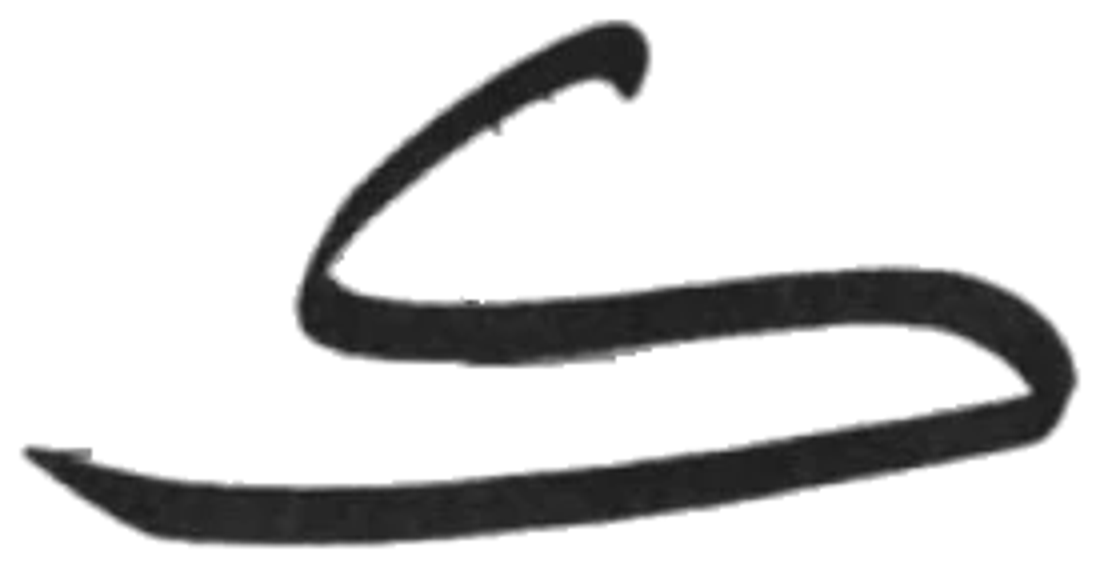
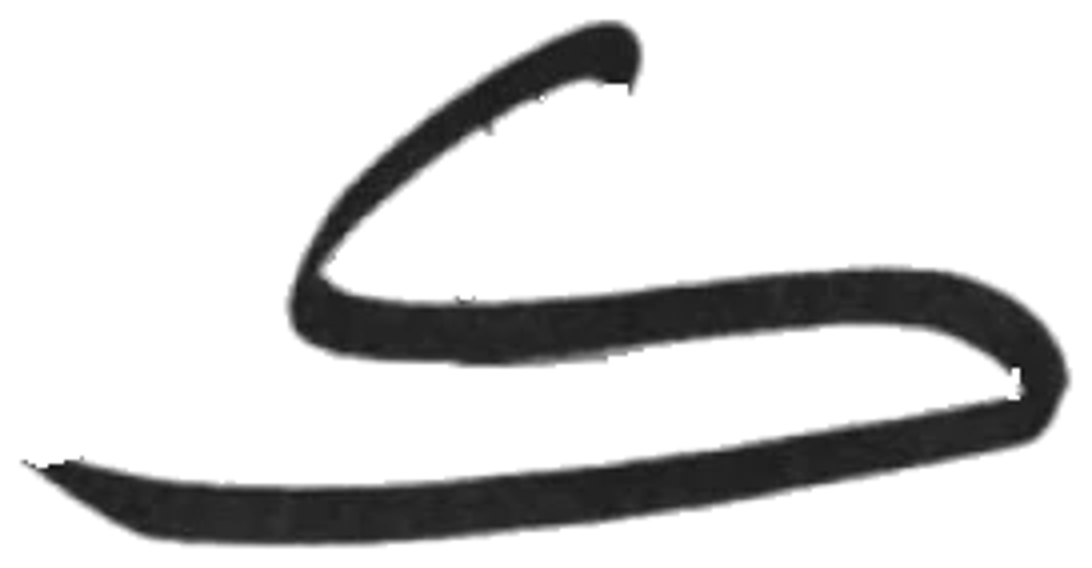
Clean the sheet-2 kaf's tiny spurs and add it to the library; delete the meem outline
Claude-Session: https://claude.ai/code/session_01XKSn9LffW5ruEBSXbs53N4

diff --git a/src/lib/markLibraryData.ts b/src/lib/markLibraryData.ts
@@ -105,6 +105,7 @@ export const MARK_GROUPS: MarkGroup[] = [
     { id: "thuluth-t2-19", name: "Wrapped ha (ح)", w: 371, h: 527, d: "M-56 263C-59 263 -62 263 -63 262C-64 262 -67 262 -68 262C-71 261 -75 261 -84 258C-87 258 -90 257 -92 256C-99 255 -110 251 -118 246C-119 245 -122 243 -125 242C-129 240 -134 236 -135 234C-136 234 -138 232 -139 231C-145 226 -158 212 -159 209C-160 208 -161 206 -162 205C-166 200 -169 192 -172 183C-174 179 -176 175 -176 173C-180 165 -182 153 -183 143C-184 135 -184 129 -185 125C-186 110 -183 57 -179 43C-179 41 -178 39 -178 38C-178 37 -177 34 -176 32C-176 29 -175 25 -174 23C-173 18 -170 5 -168 2C-167 0 -166 -2 -166 -4C-166 -5 -164 -9 -163 -12C-161 -15 -159 -20 -157 -24C-156 -28 -154 -33 -153 -35C-144 -51 -144 -54 -153 -60C-158 -63 -158 -64 -158 -65C-160 -71 -155 -72 -147 -69C-143 -66 -139 -66 -137 -67C-135 -68 -127 -77 -123 -82C-122 -83 -120 -86 -118 -88C-117 -89 -114 -92 -113 -94C-112 -96 -109 -99 -108 -101C-96 -114 -95 -115 -95 -118C-95 -121 -96 -122 -101 -125C-102 -126 -105 -128 -107 -129C-110 -131 -113 -133 -114 -133C-116 -135 -127 -142 -130 -144C-131 -145 -135 -148 -139 -150C-148 -156 -158 -163 -160 -165C-161 -166 -163 -167 -165 -168C-171 -173 -175 -178 -177 -183C-178 -184 -179 -186 -180 -188C-182 -193 -183 -194 -184 -201C-187 -212 -185 -220 -178 -236C-176 -241 -175 -243 -172 -245C-170 -246 -169 -247 -169 -247C-169 -248 -164 -252 -162 -253C-150 -259 -142 -261 -123 -262C-119 -262 -114 -262 -112 -263C-108 -264 -85 -264 -80 -263C-72 -262 -59 -262 -53 -262C-50 -263 -48 -262 -45 -262C-43 -262 -38 -261 -35 -261C-31 -261 -26 -260 -25 -260C-23 -260 -19 -260 -16 -259C-13 -259 -8 -259 -6 -259C-4 -258 1 -258 5 -257C9 -257 15 -257 18 -256C22 -256 28 -256 33 -255C41 -255 43 -255 51 -253C53 -252 56 -251 62 -251C67 -251 73 -250 76 -250C79 -249 84 -248 87 -248C90 -248 94 -248 96 -247C98 -247 102 -246 104 -246C110 -246 118 -245 121 -244C122 -244 125 -243 128 -242C131 -241 135 -240 138 -240C145 -238 148 -237 148 -233C148 -232 148 -232 144 -220C137 -199 134 -196 122 -191C119 -190 115 -188 112 -187C109 -186 105 -185 104 -184C99 -182 95 -180 92 -179C90 -178 88 -177 87 -177C86 -176 82 -175 80 -174C75 -171 68 -168 62 -165C60 -164 57 -163 56 -163C55 -162 53 -161 52 -161C50 -160 48 -159 45 -158C43 -157 39 -155 37 -154C34 -153 31 -152 30 -151C29 -150 26 -149 24 -148C21 -147 18 -145 13 -143C9 -140 6 -139 2 -137C-5 -134 -11 -132 -15 -129C-17 -128 -20 -127 -22 -126C-29 -123 -31 -122 -37 -118C-40 -116 -44 -113 -46 -113C-53 -109 -54 -107 -55 -96C-55 -87 -55 -86 -58 -85C-61 -84 -63 -85 -67 -89C-72 -94 -73 -94 -80 -89C-82 -87 -86 -84 -88 -82C-93 -79 -104 -68 -106 -66C-109 -61 -104 -58 -92 -57C-90 -56 -88 -56 -87 -56C-86 -55 -76 -55 -67 -55C-63 -55 -58 -54 -55 -54C-46 -53 -38 -52 -25 -52C-14 -52 -13 -52 -4 -51C-3 -51 6 -50 16 -50C26 -50 36 -50 39 -50C42 -49 47 -49 50 -49C53 -48 58 -48 61 -48C63 -48 68 -47 71 -47C74 -46 79 -46 81 -46C84 -45 89 -45 92 -44C95 -44 99 -43 101 -43C104 -43 108 -42 111 -41C115 -40 119 -40 120 -39C123 -39 131 -36 137 -33C144 -30 151 -25 158 -19C160 -18 162 -16 164 -14C168 -11 168 -11 174 -2C179 7 183 19 184 32C184 33 184 36 184 38C185 48 186 59 185 62C185 64 184 68 184 71C184 73 183 77 183 80C182 82 181 88 180 92C178 102 177 103 175 107C175 109 173 113 171 116C170 119 168 124 167 126C166 129 165 131 160 140C159 142 156 147 153 151C150 155 148 159 147 160C146 163 143 166 138 171C135 174 132 177 131 179C127 185 112 200 105 205C104 206 102 207 101 209C97 212 93 215 88 218C86 220 83 222 82 223C80 225 75 228 71 230C70 231 68 232 66 233C65 235 62 236 60 237C58 238 55 240 55 240C54 240 53 241 51 241C50 242 46 244 42 245C36 249 30 251 18 253C16 254 11 255 8 256C5 257 1 258 -2 259C-5 259 -9 260 -11 260C-13 261 -16 262 -19 262C-22 262 -26 262 -27 263C-31 263 -49 264 -56 263ZM-2 215C8 214 9 213 28 207C30 206 34 205 37 204C40 203 42 202 43 202C43 202 46 200 50 199C53 197 59 194 63 193C71 189 80 184 87 178C89 176 92 174 93 174C97 171 106 164 110 160C112 158 115 156 116 155C117 154 119 152 120 151C121 150 124 147 127 144C130 141 133 138 134 137C135 135 138 132 140 130C144 126 145 124 147 120C148 119 149 118 151 116C154 113 158 106 163 97C163 96 164 94 165 93C173 80 173 59 165 45C157 32 157 31 146 23C133 13 115 5 103 4C101 3 98 3 96 2C95 2 92 1 89 1C86 1 83 1 81 0C79 -0 70 -1 63 -2C61 -2 59 -3 58 -3C54 -4 52 -4 44 -5C40 -5 36 -5 35 -5C33 -6 28 -6 23 -6C12 -7 4 -7 2 -8C1 -8 -6 -9 -19 -9C-31 -10 -39 -11 -54 -14C-58 -15 -69 -18 -74 -19C-76 -20 -79 -21 -81 -21C-83 -22 -86 -23 -87 -23C-88 -24 -90 -25 -92 -25C-100 -28 -108 -32 -111 -34C-113 -36 -120 -39 -124 -40C-128 -41 -131 -39 -134 -34C-135 -33 -136 -30 -138 -28C-143 -20 -146 -15 -147 -12C-147 -10 -149 -8 -149 -7C-153 -1 -158 9 -158 13C-159 16 -161 23 -163 31C-166 39 -167 46 -168 51C-168 53 -168 57 -169 60C-170 66 -170 74 -170 87C-170 108 -168 117 -162 134C-161 137 -160 140 -160 142C-158 147 -153 157 -148 164C-144 170 -131 184 -127 186C-126 187 -124 188 -123 189C-121 192 -109 199 -103 201C-102 202 -100 203 -99 203C-98 204 -95 205 -93 206C-91 207 -87 208 -84 209C-79 212 -75 213 -69 214C-67 214 -63 215 -60 215C-50 217 -14 217 -2 215ZM-63 -140C-62 -140 -60 -142 -59 -143C-57 -144 -54 -147 -52 -148C-50 -149 -47 -151 -45 -152C-44 -154 -40 -156 -38 -157C-31 -161 -25 -165 -21 -167C-19 -168 -13 -171 -8 -174C-2 -177 4 -180 6 -181C8 -182 11 -184 13 -185C15 -185 17 -186 17 -187C18 -187 20 -188 23 -189C25 -189 28 -191 30 -192C33 -193 36 -195 41 -197C48 -200 49 -201 49 -202C51 -205 44 -207 23 -209C21 -209 16 -210 14 -210C11 -210 7 -211 3 -211C0 -212 -4 -212 -5 -212C-12 -214 -14 -214 -23 -214C-31 -214 -32 -215 -37 -216C-42 -217 -42 -217 -54 -217C-60 -217 -67 -218 -68 -218C-69 -218 -76 -218 -87 -218C-96 -218 -108 -218 -112 -218C-121 -218 -123 -218 -130 -217C-134 -216 -136 -215 -144 -214C-151 -214 -154 -213 -155 -211C-158 -208 -157 -206 -148 -200C-146 -199 -143 -197 -142 -196C-141 -195 -138 -194 -137 -193C-135 -192 -132 -190 -130 -189C-128 -187 -125 -185 -123 -184C-122 -183 -119 -182 -118 -181C-116 -179 -110 -175 -106 -173C-100 -170 -93 -164 -72 -142C-67 -138 -67 -138 -63 -140Z" },
     { id: "thuluth-t2-23", name: "Starting sad (صـ)", w: 303, h: 221, d: "M-146 110C-148 110 -147 107 -145 101C-144 99 -144 96 -143 94C-143 92 -142 89 -141 87C-137 73 -137 72 -144 62C-152 53 -153 44 -150 30C-149 28 -148 24 -148 22C-144 6 -143 5 -137 12C-136 14 -134 17 -132 19C-131 20 -129 22 -128 23C-127 25 -123 29 -121 29C-117 31 -113 28 -109 20C-107 16 -103 10 -97 3C-96 2 -93 -2 -91 -5C-89 -8 -86 -12 -85 -14C-84 -15 -82 -18 -81 -19C-80 -20 -79 -21 -79 -22C-78 -22 -77 -23 -77 -24C-76 -26 -75 -27 -74 -28C-73 -29 -71 -32 -69 -34C-64 -41 -60 -46 -51 -54C-47 -58 -42 -63 -40 -65C-33 -73 -23 -82 -15 -87C-14 -87 -12 -89 -11 -90C-9 -92 -1 -96 2 -98C3 -99 5 -100 6 -100C10 -103 14 -105 24 -107C26 -107 29 -108 31 -109C39 -111 47 -111 59 -110C69 -109 81 -105 84 -103C86 -101 92 -98 99 -95C107 -91 111 -88 116 -83C118 -81 122 -78 124 -75C127 -73 130 -70 131 -68C133 -67 135 -64 137 -62C138 -60 141 -57 141 -56C142 -54 144 -51 146 -48C150 -42 151 -40 151 -35C152 -23 149 -9 145 3C144 5 143 9 142 11C140 16 135 26 132 30C131 31 130 33 129 34C128 36 126 38 124 40C122 41 119 44 118 46C115 48 113 49 111 50C110 51 107 53 104 55C99 59 91 64 87 66C85 67 83 68 81 69C75 73 73 74 64 77C62 77 59 79 57 79C49 82 40 85 36 86C34 87 31 87 30 88C25 90 13 93 3 95C-8 97 -11 97 -17 98C-30 99 -39 99 -51 99C-70 98 -76 97 -93 93C-97 92 -102 91 -103 91C-105 90 -108 89 -111 87C-121 82 -124 83 -128 90C-133 97 -135 101 -137 103C-138 105 -139 107 -140 108C-142 110 -144 111 -146 110ZM-2 51C0 51 4 50 5 50C14 49 25 47 37 43C48 39 48 39 53 38C60 37 71 32 86 24C87 24 91 22 95 20C99 17 104 15 105 14C109 12 115 8 118 6C119 5 121 4 123 3C128 -1 128 -4 123 -10C121 -12 119 -15 118 -17C116 -20 114 -21 112 -23C111 -24 109 -26 107 -28C105 -31 102 -33 101 -34C99 -35 96 -38 93 -41C89 -45 89 -45 84 -48C81 -49 77 -52 75 -53C64 -61 48 -65 32 -65C22 -64 0 -58 -5 -54C-6 -54 -10 -51 -13 -49C-20 -44 -23 -42 -27 -39C-29 -37 -32 -34 -34 -33C-36 -32 -39 -29 -42 -26C-45 -23 -48 -20 -50 -19C-51 -17 -53 -15 -54 -14C-55 -13 -57 -11 -59 -10C-65 -5 -68 -1 -74 7C-76 9 -77 12 -78 13C-79 15 -85 23 -88 27C-89 29 -90 31 -91 32C-98 41 -95 46 -83 48C-78 49 -70 51 -67 51C-60 52 -9 52 -2 51Z" },
     { id: "thuluth-t2-28", name: "Waw (و)", w: 305, h: 318, d: "M-78 159C-79 159 -81 159 -83 158C-85 158 -88 158 -89 158C-94 157 -103 154 -107 152C-108 152 -109 151 -110 150C-111 150 -113 148 -115 147C-117 146 -119 144 -121 143C-124 141 -128 136 -131 132C-132 131 -134 128 -135 127C-136 125 -137 123 -138 122C-138 120 -140 117 -141 114C-146 106 -148 100 -150 91C-153 77 -154 53 -151 33C-150 29 -150 25 -149 23C-149 21 -149 18 -148 16C-148 15 -147 12 -147 10C-147 8 -146 5 -146 3C-145 2 -144 -2 -143 -6C-143 -9 -142 -13 -141 -14C-141 -15 -140 -17 -140 -19C-139 -22 -137 -25 -134 -33C-133 -35 -131 -39 -130 -42C-127 -49 -126 -51 -124 -51C-119 -53 -118 -46 -122 -36C-123 -33 -125 -30 -126 -28C-126 -26 -127 -22 -128 -20C-129 -17 -130 -12 -131 -9C-135 4 -136 8 -137 16C-137 20 -138 25 -138 26C-139 31 -139 42 -138 49C-138 52 -137 56 -137 58C-135 72 -131 80 -121 91C-106 106 -100 109 -80 112C-76 112 -71 113 -68 113C-63 114 -62 114 -58 113C-56 112 -52 112 -48 111C-42 110 -39 109 -24 105C-22 104 -17 102 -14 100C-10 99 -5 97 -4 96C-2 95 1 94 3 93C4 92 7 91 8 90C9 90 11 88 13 87C17 85 20 83 26 80C28 79 31 77 33 76C35 74 38 72 40 70C46 67 50 64 52 62C53 61 56 60 58 58C60 57 64 54 65 53C67 51 70 49 72 47C74 46 77 43 79 41C82 39 85 36 87 35C88 33 91 31 93 30C94 28 97 25 99 24C104 20 111 13 114 9C116 7 119 5 121 3C122 2 125 -1 127 -4C129 -6 132 -9 133 -10C143 -20 143 -25 135 -34C130 -38 124 -41 116 -42C115 -43 112 -43 110 -44C94 -47 94 -47 82 -47C57 -46 56 -46 44 -50C32 -53 23 -64 20 -79C19 -84 20 -98 21 -102C22 -103 23 -107 23 -109C24 -113 25 -115 26 -117C27 -119 28 -122 28 -123C33 -136 49 -151 62 -156C74 -161 79 -160 90 -154C93 -152 97 -150 99 -149C101 -147 104 -146 105 -144C106 -143 109 -141 111 -139C113 -137 116 -134 118 -133C119 -131 121 -129 122 -127C129 -119 131 -115 135 -109C136 -106 137 -103 138 -103C138 -102 143 -93 145 -89C149 -79 150 -73 151 -64C151 -61 152 -55 152 -51C152 -48 153 -44 153 -43C153 -38 152 -26 151 -20C151 -17 150 -13 150 -11C150 -10 150 -8 149 -7C149 -6 149 -3 148 -2C148 2 147 4 145 7C144 9 143 11 142 12C140 20 137 24 131 31C129 33 127 36 125 37C124 39 121 42 119 44C117 47 113 50 112 52C110 54 108 56 107 57C105 58 103 61 102 62C100 64 97 67 94 70C92 72 89 75 88 76C87 77 84 79 82 81C79 83 76 86 74 87C69 92 65 95 62 98C60 99 57 101 56 102C53 105 51 107 48 109C47 109 44 111 42 113C38 116 34 119 28 122C27 123 23 126 20 127C18 129 13 132 10 133C8 135 5 136 4 137C3 138 -3 141 -6 143C-7 143 -9 144 -12 145C-14 145 -17 147 -19 148C-22 149 -28 151 -37 154C-42 156 -54 158 -58 159C-61 159 -76 159 -78 159ZM84 -90C91 -91 93 -92 93 -95C93 -97 91 -100 87 -102C76 -110 75 -111 73 -111C66 -114 55 -111 48 -104C44 -100 44 -98 50 -94C56 -91 73 -89 84 -90Z" },
+    { id: "thuluth-t2-3", name: "Kaf, zinadi (ك)", w: 772, h: 392, d: "M-208 196C-224 195 -240 195 -245 195C-250 195 -259 194 -265 194C-275 194 -278 194 -280 193C-281 193 -284 192 -287 192C-301 191 -306 190 -318 184C-322 182 -326 180 -328 180C-329 179 -331 178 -332 177C-338 173 -347 168 -349 167C-350 166 -352 165 -353 165C-354 164 -356 162 -358 161C-360 160 -363 158 -364 157C-368 153 -371 151 -373 150C-376 149 -378 147 -381 145C-382 144 -383 143 -384 142C-387 140 -387 140 -382 138C-381 138 -379 138 -379 137C-378 136 -376 135 -372 135C-370 135 -369 135 -368 135C-364 133 -364 133 -359 133C-355 134 -354 134 -352 135C-350 136 -343 138 -337 139C-334 139 -331 140 -329 140C-322 142 -321 143 -314 144C-311 144 -306 145 -304 146C-302 146 -297 147 -294 147C-290 148 -285 149 -283 149C-281 149 -275 150 -271 150C-265 150 -261 150 -258 151C-252 152 -251 152 -231 152C-217 152 -208 152 -203 153C-197 153 -194 153 -189 153C-186 153 -170 153 -154 152C-139 152 -125 152 -123 152C-122 152 -118 151 -114 151C-110 151 -104 151 -100 150C-96 150 -90 149 -85 149C-79 149 -76 149 -72 148C-69 147 -66 147 -65 147C-63 147 -60 147 -58 146C-55 146 -51 145 -49 145C-46 145 -43 144 -42 144C-41 144 -37 144 -33 144C-29 143 -23 143 -20 142C-16 142 -12 141 -10 141C-8 141 -3 141 -0 141C10 140 19 139 21 138C22 138 26 138 30 138C38 137 47 136 54 134C58 133 64 132 70 132C73 132 80 131 86 130C92 129 98 128 101 128C103 127 106 127 108 127C109 126 113 126 116 126C122 125 123 125 127 125C129 124 132 124 135 123C138 123 142 122 143 121C144 121 147 120 149 120C151 120 154 119 155 119C157 118 161 118 163 118C166 117 169 117 172 116C175 115 179 115 181 114C184 114 187 114 189 113C192 113 196 112 199 112C204 111 209 110 219 108C222 107 226 107 228 107C230 106 233 106 234 106C235 106 238 105 240 105C242 104 245 104 247 104C248 103 251 103 254 103C256 102 260 102 263 101C266 101 270 100 273 99C275 99 278 98 280 98C284 96 287 96 292 95C295 95 298 95 299 94C301 94 303 93 305 93C306 93 310 92 314 91C317 90 322 90 324 90C326 89 330 89 333 88C338 86 338 86 342 87C347 88 349 88 350 85C351 82 351 79 351 77C351 76 350 73 350 70C350 64 350 63 347 63C345 63 345 64 344 65C343 65 342 66 342 66C342 66 333 58 332 57C331 56 319 49 315 47C314 47 312 46 311 45C302 39 282 33 271 32C268 32 264 32 261 32C248 30 208 30 199 32C193 33 189 34 182 34C178 34 173 34 171 35C170 35 165 35 162 36C158 36 154 36 152 37C148 38 146 38 141 38C137 38 133 38 132 39C131 39 128 39 126 39C124 40 121 40 119 40C117 41 114 41 111 41C108 41 103 42 101 42C98 43 95 43 93 43C91 43 88 44 86 44C84 45 80 45 78 45C71 46 68 46 66 47C65 48 62 48 61 49C59 49 56 49 55 50C53 51 51 51 48 51C43 51 41 51 39 54C37 55 37 55 35 55C32 55 24 56 16 57C11 58 6 58 4 58C2 58 -1 59 -4 59C-6 60 -9 60 -11 60C-14 60 -21 60 -29 61C-37 62 -66 61 -69 61C-71 60 -73 60 -75 59C-76 59 -78 59 -82 59C-97 59 -129 58 -134 57C-137 57 -140 56 -141 56C-143 56 -145 55 -147 55C-149 55 -153 54 -155 54C-160 54 -164 52 -169 50C-170 50 -172 49 -173 49C-183 46 -192 39 -195 31C-196 28 -198 21 -198 17C-198 10 -189 -18 -183 -26C-182 -28 -182 -29 -180 -33C-179 -34 -177 -37 -176 -39C-175 -40 -173 -44 -171 -48C-168 -53 -166 -56 -159 -66C-158 -67 -156 -69 -156 -70C-155 -71 -153 -73 -151 -75C-149 -76 -146 -78 -146 -79C-143 -82 -140 -86 -137 -87C-136 -88 -134 -90 -132 -92C-130 -94 -128 -96 -125 -98C-123 -100 -120 -103 -118 -105C-116 -107 -114 -109 -112 -109C-109 -111 -108 -113 -102 -118C-95 -123 -91 -127 -87 -129C-85 -131 -82 -133 -81 -133C-80 -134 -78 -136 -76 -138C-74 -139 -71 -141 -69 -142C-67 -143 -65 -145 -64 -145C-63 -146 -61 -147 -60 -148C-56 -151 -43 -160 -40 -161C-38 -162 -36 -163 -34 -165C-33 -166 -26 -169 -21 -172C-15 -175 -9 -178 -9 -178C-6 -180 2 -184 7 -186C9 -187 14 -188 16 -189C23 -193 25 -193 37 -196C40 -196 47 -196 49 -195C64 -190 69 -175 62 -156C59 -146 59 -145 57 -148C56 -150 55 -150 49 -150C42 -150 38 -150 33 -152C26 -154 13 -152 4 -147C3 -146 1 -146 -0 -145C-2 -145 -3 -144 -4 -143C-5 -143 -7 -142 -8 -141C-9 -141 -10 -140 -11 -139C-12 -138 -12 -138 -14 -138C-18 -138 -25 -135 -32 -130C-34 -129 -37 -127 -39 -126C-43 -124 -45 -122 -46 -119C-47 -116 -48 -115 -50 -115C-54 -116 -55 -116 -58 -115C-61 -113 -67 -109 -70 -107C-71 -105 -74 -103 -76 -102C-79 -101 -80 -100 -89 -93C-92 -90 -96 -87 -98 -86C-100 -85 -102 -84 -102 -83C-103 -82 -108 -77 -111 -75C-113 -74 -116 -72 -118 -70C-120 -68 -123 -65 -125 -64C-127 -63 -130 -60 -132 -57C-135 -55 -138 -52 -140 -51C-142 -49 -144 -48 -146 -46C-149 -43 -151 -40 -154 -38C-154 -38 -156 -36 -156 -35C-157 -34 -159 -31 -161 -29C-163 -27 -165 -24 -165 -23C-166 -21 -169 -18 -171 -16C-175 -11 -175 -7 -171 -4C-170 -3 -169 -2 -167 -0C-165 1 -163 3 -161 4C-158 5 -156 6 -156 6C-154 8 -144 10 -135 11C-133 11 -130 12 -128 12C-126 13 -122 13 -120 13C-118 13 -115 14 -112 14C-108 15 -94 15 -82 15C-76 15 -73 15 -72 13C-71 13 -69 13 -63 14C-57 15 -44 15 -40 15C-37 14 -32 14 -25 14C-18 14 -13 13 -11 13C-7 12 -1 12 8 11C21 10 33 10 47 8C60 7 65 6 71 5C74 4 78 3 80 3C82 3 86 3 89 2C92 2 97 2 101 1C107 1 108 1 117 -1C122 -2 133 -3 139 -3C140 -3 143 -4 145 -4C147 -5 151 -5 154 -5C157 -6 160 -6 162 -6C164 -6 171 -7 182 -8C185 -8 189 -8 191 -8C193 -9 196 -9 199 -9C203 -8 205 -8 208 -9C214 -10 222 -10 229 -10C233 -10 236 -10 239 -11C242 -11 245 -11 260 -11C265 -10 272 -10 277 -10C282 -10 287 -9 288 -9C289 -9 291 -9 294 -8C296 -8 299 -8 300 -7C302 -7 304 -6 306 -5C312 -4 333 5 340 9C345 12 354 18 357 20C358 22 361 25 363 26C367 30 369 33 373 39C375 41 377 44 377 46C380 49 382 55 383 59C384 60 384 64 385 66C387 72 386 74 382 83C381 87 379 91 378 93C374 105 365 116 356 119C352 121 334 125 321 127C318 128 313 129 311 129C310 130 306 130 304 131C301 131 297 132 295 133C287 135 282 136 278 136C276 136 273 137 272 137C271 138 268 138 266 138C264 138 260 139 257 140C254 141 250 142 249 142C248 142 240 143 234 144C232 145 229 146 226 146C221 147 216 148 214 148C213 149 207 150 203 150C201 150 197 151 195 152C192 152 189 153 186 153C184 153 178 154 174 156C155 160 147 162 141 162C136 163 136 163 132 164C131 164 127 165 125 165C122 166 117 167 113 167C108 168 106 169 102 169C98 169 94 170 87 171C83 172 77 173 75 173C73 173 70 173 69 174C67 174 65 174 63 174C61 175 57 175 54 176C51 176 48 177 47 177C45 177 43 177 42 178C41 178 39 178 37 178C36 179 33 179 31 179C29 180 24 180 21 180C17 181 12 181 9 181C6 182 2 182 -0 182C-2 182 -7 183 -10 183C-13 184 -17 184 -19 184C-22 184 -26 184 -28 185C-31 185 -34 186 -37 186C-39 186 -43 187 -46 187C-48 187 -52 188 -56 188C-59 188 -64 189 -66 189C-69 190 -72 190 -73 190C-75 190 -77 190 -79 191C-80 191 -85 191 -90 192C-94 192 -100 192 -103 192C-107 193 -113 193 -117 193C-121 193 -127 194 -130 194C-134 195 -139 195 -157 195C-169 195 -179 196 -180 196C-180 196 -193 196 -208 196Z" },
     { id: "thuluth-t3-2", name: "Alif (ا)", w: 78, h: 487, d: "M23 242C21 241 21 240 21 230C21 225 21 221 21 220C20 220 20 214 20 207C20 192 19 183 17 176C17 172 16 169 16 165C15 152 9 105 6 96C6 95 5 91 5 88C5 84 4 80 3 78C3 75 2 69 1 63C1 61 0 57 -0 54C-1 52 -2 47 -2 44C-3 41 -3 37 -3 36C-5 28 -7 16 -8 6C-8 3 -9 -2 -9 -6C-10 -9 -11 -18 -12 -25C-13 -32 -14 -38 -15 -40C-15 -41 -15 -43 -15 -44C-15 -44 -16 -48 -17 -52C-19 -64 -19 -67 -20 -71C-20 -77 -22 -89 -23 -95C-25 -106 -27 -119 -28 -130C-28 -133 -28 -136 -29 -137C-29 -139 -29 -143 -30 -147C-30 -163 -31 -169 -33 -176C-33 -179 -34 -182 -34 -184C-35 -186 -35 -190 -36 -193C-40 -204 -40 -207 -37 -219C-36 -221 -35 -225 -34 -228C-33 -233 -31 -241 -30 -242C-27 -245 -24 -243 -21 -237C-20 -235 -18 -232 -17 -231C-16 -230 -14 -225 -12 -222C-10 -218 -8 -213 -6 -211C-3 -207 -1 -202 2 -193C3 -190 4 -187 5 -185C6 -184 7 -182 7 -181C7 -180 9 -177 10 -174C12 -171 13 -167 14 -166C14 -164 15 -162 16 -160C17 -157 19 -152 19 -149C19 -142 10 -143 2 -152C-5 -160 -7 -153 -4 -136C-3 -133 -2 -129 -2 -126C-1 -114 -0 -108 1 -102C3 -95 4 -89 5 -85C5 -83 5 -81 6 -79C6 -77 7 -72 7 -68C8 -57 9 -50 10 -48C10 -47 11 -43 11 -40C13 -27 14 -20 15 -17C15 -16 16 -12 16 -8C18 4 20 15 22 23C23 25 23 28 23 29C23 31 24 33 24 35C24 37 25 40 25 41C25 46 27 58 27 60C28 62 28 67 29 72C30 78 31 83 31 85C32 88 33 95 34 104C34 106 35 112 35 117C36 123 36 130 36 133C36 139 37 141 38 148C38 149 38 155 38 161C39 167 39 173 39 175C39 178 39 188 38 205C38 215 37 222 34 234C31 242 28 245 23 242Z" },
     { id: "thuluth-t3-3", name: "Kaf, upright (ك)", w: 355, h: 553, d: "M-79 276C-87 276 -103 272 -108 271C-110 270 -113 269 -115 268C-123 266 -146 250 -150 245C-152 243 -155 239 -158 236C-160 233 -164 227 -170 216C-173 210 -175 199 -176 188C-176 184 -176 179 -177 177C-178 171 -178 162 -177 158C-176 152 -175 141 -174 136C-173 133 -172 128 -172 124C-171 121 -170 117 -170 116C-169 111 -166 105 -165 102C-164 100 -162 98 -161 97C-157 88 -149 92 -153 101C-153 103 -154 105 -154 107C-157 116 -158 121 -158 123C-158 124 -159 126 -160 128C-161 132 -161 132 -162 148C-162 170 -162 170 -157 178C-155 180 -153 183 -151 185C-148 191 -146 194 -140 200C-133 206 -129 210 -120 215C-118 216 -115 218 -113 219C-108 222 -99 225 -88 227C-70 231 -68 231 -51 230C-38 230 -33 229 -26 228C-25 228 -22 227 -19 226C-16 226 -11 225 -8 224C-4 223 -2 223 7 220C9 219 12 218 14 218C16 217 20 216 23 215C26 214 29 213 31 212C40 209 45 207 48 206C53 203 78 191 85 188C87 186 90 185 92 184C94 183 96 181 98 180C100 179 102 178 111 173C113 172 117 170 119 168C121 167 123 165 124 165C135 158 138 156 139 155C140 154 142 153 142 152C148 149 158 140 159 137C161 133 160 111 157 93C157 90 156 85 156 83C155 74 154 69 153 64C152 61 151 54 151 50C150 45 149 40 149 38C149 37 148 34 148 33C147 28 145 15 144 13C143 8 139 -13 138 -23C137 -26 137 -30 136 -33C134 -41 133 -47 132 -53C132 -57 131 -61 131 -61C130 -64 129 -69 129 -72C128 -75 127 -80 126 -83C126 -85 125 -88 124 -90C124 -92 123 -96 123 -98C121 -104 121 -108 120 -116C119 -124 117 -140 116 -147C114 -155 114 -159 114 -166C113 -172 112 -182 111 -187C111 -188 111 -191 111 -192C110 -200 108 -211 106 -216C103 -224 102 -229 100 -232C98 -236 98 -238 100 -247C101 -251 102 -255 102 -256C102 -257 103 -260 104 -263C105 -265 106 -269 106 -270C109 -279 116 -278 119 -268C120 -265 123 -259 125 -255C126 -253 127 -250 129 -248C130 -246 132 -242 133 -240C135 -238 137 -233 138 -230C140 -228 143 -222 145 -218C148 -213 150 -210 150 -207C151 -206 152 -203 153 -202C158 -193 159 -181 155 -179C153 -177 151 -178 146 -184C142 -189 140 -190 138 -189C135 -189 135 -185 137 -174C138 -170 138 -166 138 -164C139 -154 140 -146 143 -138C143 -136 144 -132 144 -129C145 -123 149 -104 151 -96C152 -93 153 -89 155 -77C156 -75 156 -71 157 -68C158 -59 158 -57 159 -53C160 -51 161 -48 161 -44C161 -41 162 -35 163 -32C164 -29 165 -24 165 -20C166 -16 166 -12 166 -11C168 -2 169 0 169 4C170 6 170 9 170 11C171 12 171 15 171 17C172 20 172 24 173 27C173 30 174 35 174 41C175 47 175 53 176 56C176 59 176 63 177 66C177 69 177 72 177 74C178 82 177 114 175 122C175 123 175 125 175 126C175 126 174 129 174 132C173 134 172 138 171 141C169 147 169 149 167 153C167 155 166 157 165 159C163 169 153 181 141 191C138 193 135 196 134 197C133 198 131 200 130 200C129 201 124 204 121 207C119 208 118 209 113 212C111 213 109 214 108 215C105 217 98 222 94 224C92 225 90 226 89 226C89 227 87 228 86 228C84 229 82 230 81 231C81 231 78 233 75 234C72 235 68 237 67 238C57 244 45 250 34 254C32 255 29 256 28 256C17 261 5 265 -3 267C-5 267 -7 268 -9 268C-14 270 -18 271 -23 272C-29 273 -30 273 -33 274C-37 275 -47 276 -56 276C-60 276 -65 276 -68 277C-70 277 -75 276 -79 276ZM-37 136C-40 135 -39 133 -34 131C-27 128 -22 126 -22 125C-21 125 -20 124 -17 123C-11 120 -4 116 -3 115C-2 114 -0 113 1 112C3 111 6 109 8 108C10 107 14 104 17 102C24 97 26 95 29 94C34 91 38 87 38 85C38 83 38 83 31 83C4 84 -2 83 -9 76C-17 67 -19 57 -14 47C-14 45 -13 43 -12 41C-12 38 -11 36 -11 35C-10 33 -9 31 -9 29C-7 22 -5 15 -2 9C-1 7 1 4 2 1C5 -5 9 -13 12 -18C13 -19 14 -21 14 -22C15 -24 22 -33 24 -34C32 -41 43 -43 45 -38C47 -34 47 -25 44 -19C44 -18 43 -13 43 -9C40 6 38 9 31 7C25 5 20 8 13 17C6 25 5 27 7 31C10 36 22 39 33 37C44 35 58 35 62 37C66 39 70 46 70 50C70 55 67 68 66 72C65 73 64 75 64 78C62 83 60 89 58 91C57 93 54 97 50 103C45 112 35 119 21 123C20 123 17 124 16 125C14 125 12 126 10 126C8 127 5 128 3 128C2 129 -2 129 -4 130C-10 131 -14 131 -16 132C-17 133 -20 133 -22 133C-25 134 -28 134 -31 135C-35 137 -36 137 -37 136Z" },
     { id: "thuluth-t3-5", name: "Lam, second form (ل)", w: 359, h: 598, d: "M-92 299C-92 299 -99 298 -104 297C-112 296 -120 294 -127 289C-134 286 -135 285 -137 283C-138 282 -140 280 -142 279C-149 274 -158 263 -161 256C-162 255 -163 252 -164 251C-165 249 -166 247 -166 245C-167 244 -168 241 -169 239C-170 237 -171 235 -171 234C-172 233 -174 228 -175 224C-175 223 -176 220 -176 219C-179 209 -180 186 -179 174C-179 171 -179 167 -179 164C-179 158 -178 150 -176 144C-176 143 -175 141 -175 139C-175 137 -174 135 -174 133C-172 127 -171 123 -170 119C-169 117 -167 113 -167 110C-165 104 -162 97 -161 95C-160 94 -159 91 -159 89C-157 84 -155 81 -152 77C-149 75 -146 75 -145 78C-145 80 -145 81 -147 84C-147 86 -148 89 -148 91C-149 97 -150 100 -152 105C-154 108 -154 110 -155 115C-156 118 -156 122 -157 123C-157 124 -159 134 -160 141C-162 154 -162 154 -162 168C-162 183 -162 183 -160 193C-159 194 -159 196 -158 198C-158 200 -155 208 -153 212C-152 213 -150 217 -147 220C-134 238 -116 249 -96 251C-94 251 -91 252 -90 252C-87 253 -75 253 -70 253C-68 252 -64 252 -60 252C-50 251 -29 247 -21 244C-20 243 -16 242 -14 241C-12 241 -9 239 -8 239C-7 238 -4 237 -3 237C-1 236 2 235 3 234C5 234 6 233 7 233C7 233 13 230 24 225C26 224 29 223 30 222C32 221 41 216 43 215C46 214 53 210 56 207C58 206 60 205 62 204C63 203 65 202 66 201C68 199 72 197 74 195C79 193 86 187 90 184C92 182 94 180 95 180C98 179 102 175 104 173C106 172 108 170 110 168C111 167 114 165 116 163C117 162 120 159 122 158C124 156 127 154 128 153C129 152 132 149 134 147C137 145 139 143 139 143C139 142 143 139 146 136C157 127 163 120 163 116C163 114 163 98 162 94C162 93 162 90 161 88C161 86 161 82 160 79C160 76 160 72 159 70C159 68 159 64 158 62C158 59 158 55 157 52C157 50 156 45 156 42C155 39 155 36 154 34C154 30 152 19 151 13C151 11 150 7 149 3C149 0 148 -4 147 -7C147 -9 146 -14 146 -18C144 -28 144 -32 143 -37C142 -42 141 -46 139 -60C139 -64 138 -68 138 -69C137 -73 135 -83 134 -91C133 -95 132 -100 132 -103C131 -106 131 -109 131 -110C130 -111 130 -115 129 -119C128 -123 127 -130 127 -133C127 -136 126 -141 126 -144C125 -146 125 -150 124 -152C124 -154 123 -158 122 -162C122 -166 121 -171 120 -173C120 -175 119 -178 119 -180C118 -182 118 -184 118 -185C118 -187 117 -196 115 -203C115 -206 114 -210 114 -213C112 -239 112 -237 107 -252C105 -260 105 -264 107 -273C108 -274 109 -277 109 -279C110 -283 112 -291 114 -295C118 -302 123 -300 126 -290C127 -286 129 -282 131 -279C132 -278 133 -275 134 -273C134 -271 135 -268 136 -267C137 -266 139 -262 140 -260C141 -258 143 -255 144 -254C144 -253 145 -250 146 -248C147 -247 148 -244 149 -242C150 -240 151 -237 152 -235C153 -233 154 -230 156 -228C159 -220 161 -207 159 -204C156 -201 154 -202 149 -208C144 -212 143 -213 142 -211C141 -210 141 -209 141 -203C142 -200 142 -195 143 -192C143 -186 143 -184 145 -172C146 -168 147 -163 147 -160C148 -157 148 -153 149 -151C150 -145 152 -136 153 -127C154 -118 155 -113 156 -108C158 -103 159 -95 161 -86C161 -83 162 -79 162 -77C163 -73 164 -67 164 -62C164 -60 165 -58 165 -56C165 -55 166 -53 166 -51C166 -49 167 -47 167 -46C168 -44 169 -38 170 -26C170 -22 171 -17 171 -15C172 -14 172 -11 172 -9C173 -7 173 -5 173 -3C173 -2 173 1 173 2C173 5 174 9 176 20C178 32 179 45 179 68C180 99 179 104 176 119C172 138 169 150 166 154C166 154 165 156 164 158C162 162 157 169 151 175C148 177 141 184 136 189C127 198 123 201 119 204C118 204 116 207 113 209C111 211 108 213 107 214C104 216 99 220 96 223C94 225 91 227 89 229C86 231 83 233 81 235C79 236 76 239 75 240C73 241 71 242 70 243C63 248 61 250 51 255C50 256 48 257 47 258C46 259 38 264 30 268C28 269 26 270 25 270C25 271 22 272 20 273C15 275 11 277 9 278C8 279 6 280 5 280C4 280 2 281 -0 282C-2 283 -6 284 -8 285C-10 285 -13 286 -14 287C-15 288 -18 289 -20 290C-21 290 -24 291 -25 292C-26 292 -29 293 -32 294C-34 294 -37 295 -38 295C-41 296 -48 297 -56 298C-60 298 -64 298 -65 298C-67 299 -92 299 -92 299Z" },

diff --git a/scripts/marks/thuluth/review.py b/scripts/marks/thuluth/review.py
@@ -72,7 +72,13 @@ SHEETS = {
   # 3: the two blobs above the kaf's start are not part of the letter (the
   # user, 2026-10-17); a point picks out that separate bit. The box is a
   # stray tick rising from the top edge of the lower stroke (the user).
-  "erase": {3: [(918, 130), (963, 178, 971, 185)]},
+  # Tiny spurs the user found on the kaf (2026-10-17): the guide line fused
+  # along the tail's starting tip, a tick on the lower stroke, a stub and a
+  # small downward hook under the head, a point into the counter at the turn.
+  "erase": {3: [(918, 130), (963, 178, 971, 185),
+                ("poly", [(854, 218), (871, 218), (871, 223), (859, 226), (854, 223)]), (904, 228, 908, 231),
+                ("poly", [(980, 137), (991, 131), (1006, 131), (1006, 140), (980, 140)]),
+                ("poly", [(1097, 204), (1104, 202), (1104, 209), (1099, 209)])]},
   "splits": {
     # ص's tail runs into ط's base: the loop and the low tail are the ص.
     (542, 586): (24, 25, lambda xs, ys: (xs >= 700) | ((ys >= 768) & (xs >= 595))),

diff --git a/scripts/marks/traceMarks.py b/scripts/marks/traceMarks.py
@@ -154,7 +154,7 @@ GROUPS = [
     ("t2","2","Ha body, shared by ha, jim and kha (ح)"),("t2","10","Joined starting meem (مـ)"),
     ("t2","12","Ha, round (ه)"),("t2","13","Ha, round, second form (ه)"),
     ("t2","16","Small lam-alif, second form (لا)"),("t2","17","Lam-alif, open (لا)"),
-    ("t2","18","Ya (ى)"),("t2","19","Wrapped ha (ح)"),("t2","23","Starting sad (صـ)"),("t2","28","Waw (و)"),
+    ("t2","18","Ya (ى)"),("t2","19","Wrapped ha (ح)"),("t2","23","Starting sad (صـ)"),("t2","28","Waw (و)"),("t2","3","Kaf, zinadi (ك)"),
     ("t3","2","Alif (ا)"),("t3","3","Kaf, upright (ك)"),("t3","5","Lam, second form (ل)"),
     ("t3","6","Two lam-alifs, overlapping (لا لا)"),("t3","7","Ta, second form (ط)"),
     ("t3","8","Extended seen (س)"),("t3","9","Waw and long kaf (و ك)"),("t3","10","Ra, waw, dal (ر و د)"),

diff --git a/scripts/marks/thuluth/REVIEW.md b/scripts/marks/thuluth/REVIEW.md
@@ -1400,7 +1400,10 @@ measurement marks). Traced with `traceOutline.py`; the review image and the
 traced path sit beside each source.
 
 - `outline-01.png` (2026-10-17, 652×1284): **ـم the joined ending meem**
-  (named by the user, 2026-10-17). **Taken back out of the library**
+  (named by the user, 2026-10-17). **Deleted 2026-10-17** at the user's
+  word ("forget about the color outline of the meem"); the files are in git
+  history. The notes below are kept for what they taught about sizing.
+  **Taken back out of the library**
   (the user, 2026-10-17): at 420 units it is too small, because the size
   ignored the **hat**, the joining stroke that rises into the meem from the
   letter before it. The standalone meem in the reference alphabet has no hat,
@@ -1599,6 +1602,7 @@ else on a sheet is added.
 | t2 19 | Wrapped ha (ح) | `thuluth-t2-19` | 2026-10-17 |
 | t2 23 | Starting sad (صـ) | `thuluth-t2-23` | 2026-10-17 |
 | t2 28 | Waw (و) | `thuluth-t2-28` | 2026-10-17 |
+| t2 3 | Kaf, zinadi (ك) | `thuluth-t2-3` | 2026-10-17; tiny spurs removed first (the tail tip, the lower stroke, under the head, at the turn) |
 | t3 (21 pieces) | see `traceMarks.py` | `thuluth-t3-<n>` | 2026-10-17 (all of sheet 3 but 15 and 16) |
 | t4 (16 pieces) | see `traceMarks.py` | `thuluth-t4-<n>` | 2026-10-17 (all of sheet 4) |
 | t5 (20 pieces) | see `traceMarks.py` | `thuluth-t5-<n>` | 2026-10-17 (all of sheet 5 but 2, 4, 12) |
@@ -1627,7 +1631,7 @@ else on a sheet is added.
 | t9 r3 (4 pieces) | the joined and open ha; see `traceMarks.py` | `thuluth-t9r3-<n>` | 2026-10-17 (all of row 3) |
 | t10 r1 2 | Seen with meem (سمد سملا) | `thuluth-t10r1-2` | 2026-10-17 |
 | t10 r2 (4 pieces) | the seen with meem and ra; see `traceMarks.py` | `thuluth-t10r2-<n>` | 2026-10-17 (all of row 2) |
-| outline 01 | Joined ending meem (ـم) | `thuluth-outline-01` | removed 2026-10-17: too small (size ignored the hat); left out for now |
+| outline 01 | Joined ending meem (ـم) | `thuluth-outline-01` | removed 2026-10-17; the outline itself deleted at the user's word ("forget about the color outline of the meem") |
 
 Tip barbs (2026-10-17): the small barb at the top of an upright (sheet t1
 pieces 19 and 25) is **part of the letter**, not a direction arrow. Keep it.
